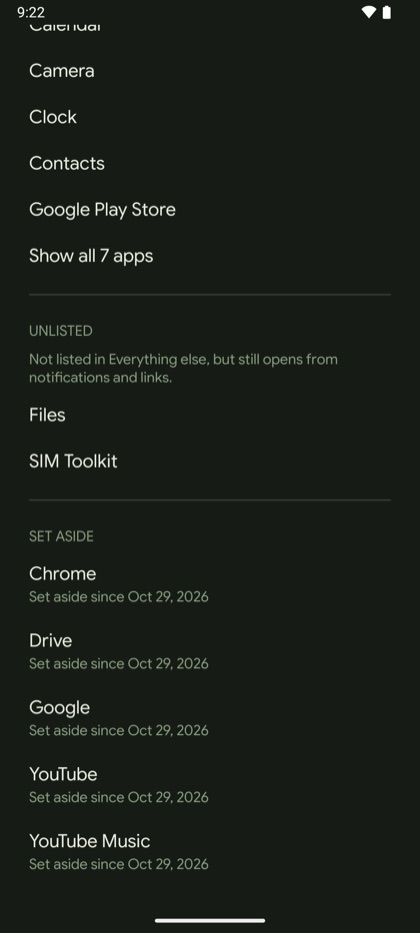
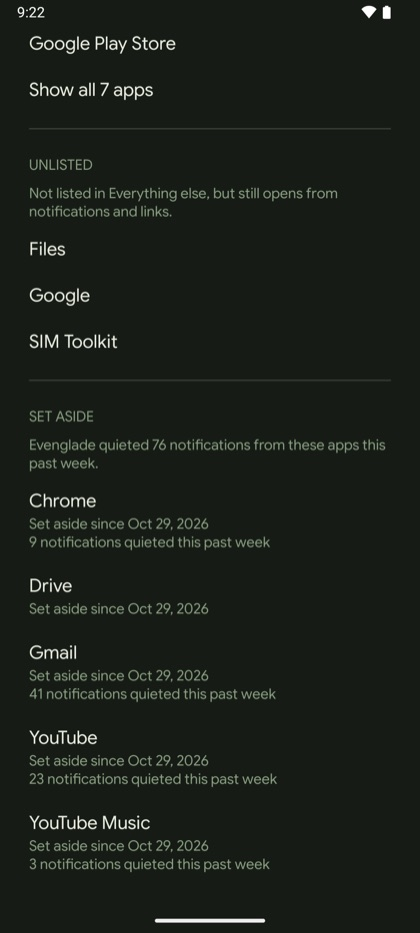
New Your apps screenshots: Google unlisted, and the week's quieted counts

diff --git a/index.html b/index.html
@@ -63,7 +63,7 @@
       <div class="tour">
         <div class="stop">
           <div class="phone">
-            <img class="when-light" src="img/light-setaside.jpg" width="420" height="933" loading="lazy" alt="Your apps: Files and SIM Toolkit unlisted, and Chrome, Drive, Google, YouTube and YouTube Music set aside since Oct 29">
+            <img class="when-light" src="img/light-setaside.jpg" width="420" height="933" loading="lazy" alt="Your apps: Files, Google and SIM Toolkit unlisted, and Chrome, Drive, Gmail, YouTube and YouTube Music set aside since Oct 29, with 76 of their notifications quieted this past week">
             <img class="when-dark" src="img/dark-setaside.jpg" width="420" height="933" loading="lazy" alt="Your apps in the dark look, with the set-aside list">
           </div>
           <div class="text">
